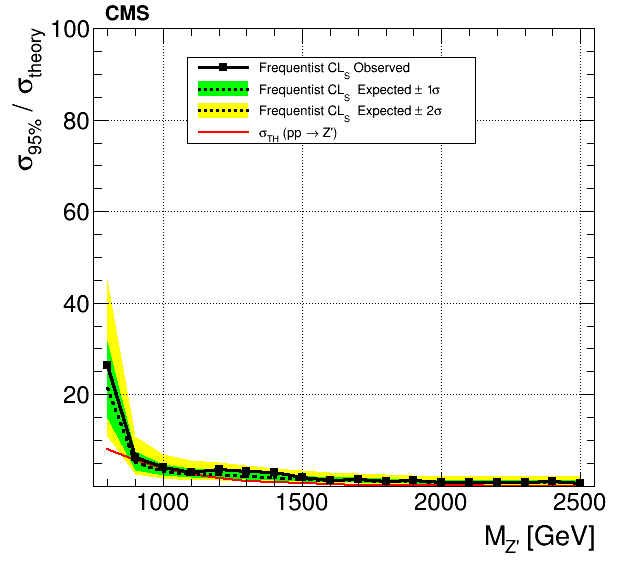
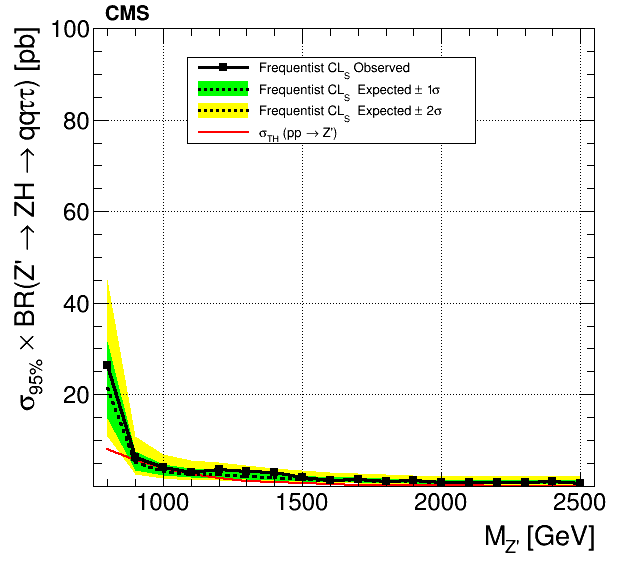
fix ZH card labels

Changed region(s): [[0.0, 0.0297, 0.0911, 0.4161], [0.0, 0.4458, 0.0911, 0.7133]]

diff --git a/cards/2015-02-20_EXO-13-007/plot_golfcourse_Asymptotic.C b/cards/2015-02-20_EXO-13-007/plot_golfcourse_Asymptotic.C
@@ -167,7 +167,7 @@ void plot_golfcourse_Asymptotic(bool unblind, char* width, char* scenario)
 
   string xsect_file_th = dirXSect + "theory_RS1_WW_8TeV.txt";
   if (!isZZChannel)xsect_file_th = dirXSect + "theory_RS1_ZZ_8TeV.txt";
-  if (isFullCombination)xsect_file_th = dirXSect + "theory_HVT_ZH_8TeV.txt";
+  if (isFullCombination)xsect_file_th = dirXSect + "theory_HVT_ZH_qqtautau_8TeV.txt";
   // make_interpolated_xsect(xsect_file_th, xsect_file_interpol);
   // string xsect_file_interpol="./RSGravXSectTimesBRToZZ_AgasheHapola_c10_EXPOINTERP.txt";
 
@@ -536,11 +536,11 @@ void plot_golfcourse_Asymptotic(bool unblind, char* width, char* scenario)
 
   TH1F *hr = cMCMC->DrawFrame(fr_left, fr_down, fr_right, fr_up, "");
   TString VV = "ZZ";
-  if (!isZZChannel)VV = "WW";
+  if (!isZZChannel)VV = "ZH";
   hr->SetXTitle("M_{Z'} [GeV]");
   hr->SetYTitle("#sigma_{95%} #times BR(Z' #rightarrow " + VV + ") [pb]"); // #rightarrow 2l2q
   if(isFullCombination)
-    hr->SetYTitle("#sigma_{95%} / #sigma_{theory}"); // #rightarrow 2l2q
+    hr->SetYTitle("#sigma_{95%} #times BR(Z' #rightarrow " + VV + " #rightarrow qq#tau#tau) [pb]"); // #rightarrow 2l2q
   
 
   gr95_cls->SetFillColor(kYellow);

diff --git a/cards/2015-02-20_EXO-13-007/HVT_interpolate_xsec.py b/cards/2015-02-20_EXO-13-007/HVT_interpolate_xsec.py
@@ -13,8 +13,15 @@ xsec_y_array_ZH=array.array('d')
 for p in xsec_x_ZH: xsec_x_array_ZH.append(p)
 for p in xsec_y_ZH: xsec_y_array_ZH.append(p)
 g_ZH=TGraph(len(xsec_x_array_ZH),xsec_x_array_ZH,xsec_y_array_ZH)
-f_out_ZH=open("theory_HVT_ZH_8TeV.txt","w")
+f_out_ZH=open("theory_HVT_ZH_qqtautau_8TeV.txt","w")
 for mass in masses:
         theoryZH=exp(g_ZH.Eval(mass))
 	f_out_ZH.write(str(mass)+" "+str(theoryZH)+"\n")
+        print "mass = ",mass,"theoryZHqqtautau = ",theoryZH
+f_out_ZH.close()
+f_out_ZH=open("theory_HVT_ZH_8TeV.txt","w")
+for mass in masses:
+        theoryZH=exp(g_ZH.Eval(mass))/6.32E-02/0.6991
+	f_out_ZH.write(str(mass)+" "+str(theoryZH)+"\n")
         print "mass = ",mass,"theoryZH = ",theoryZH
+f_out_ZH.close()
